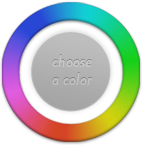
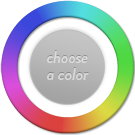
color picker graphic swap

diff --git a/wp-content/themes/connecting-lights/css/main.less b/wp-content/themes/connecting-lights/css/main.less
@@ -1055,8 +1055,8 @@ article {
 
 	canvas {
 		display: block;
-		width: 142px;
-		height: 146px;
+		width: 135px;
+		height: 135px;
 		.noselect;
 	}
 
